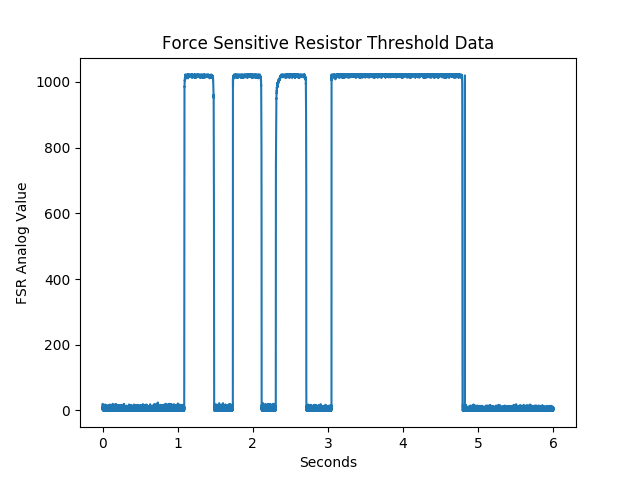
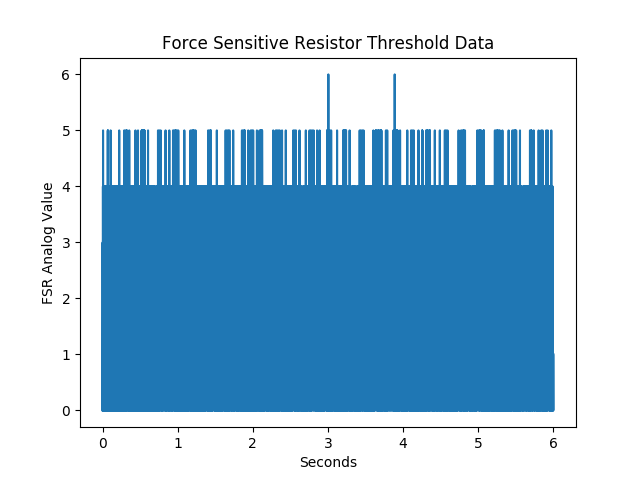
commit end of project

diff --git a/code/Driver.py b/code/Driver.py
@@ -18,7 +18,7 @@ fs.program_select(0, sfid, 0, 0)
 NOTES = [24, 26, 28, 29, 31, 33, 35, 36]
 instruments = { 17: "R-marmba.sf2", 16: "Craftsynth.sf2", 13: "Grandpno.sf2" }
 
-#misc
+#matplotlib turn off show plots
 plt.ioff()
 
 class Driver:
@@ -172,7 +172,6 @@ if __name__ == "__main__":
         print("Initializing...")
         time.sleep(1)
         driver = Driver()
-        driver.calculateThreshold()
         driver.ledStartup()
         driver.play()
         
